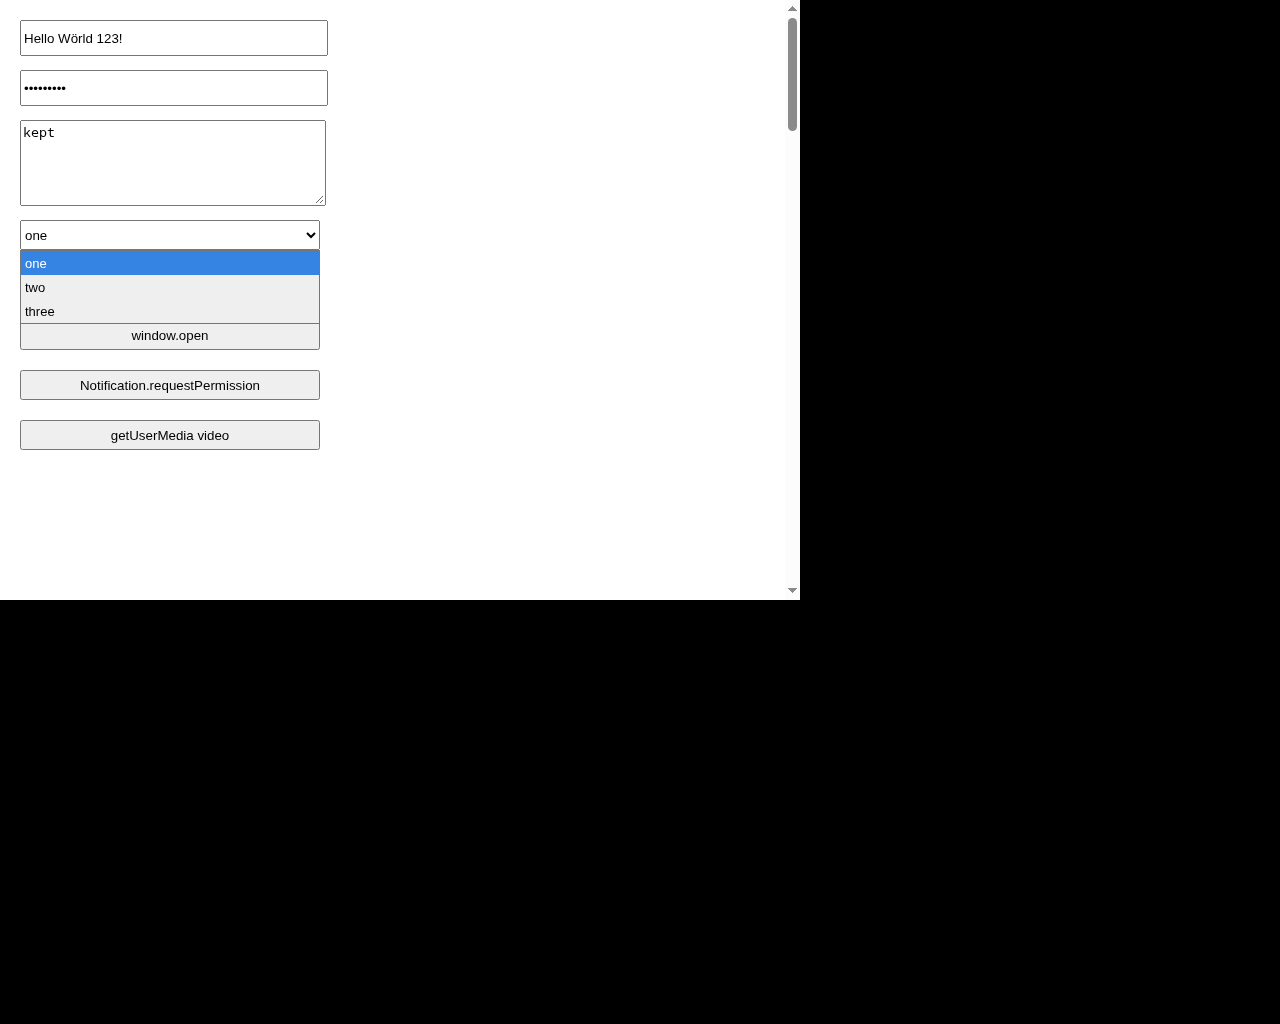
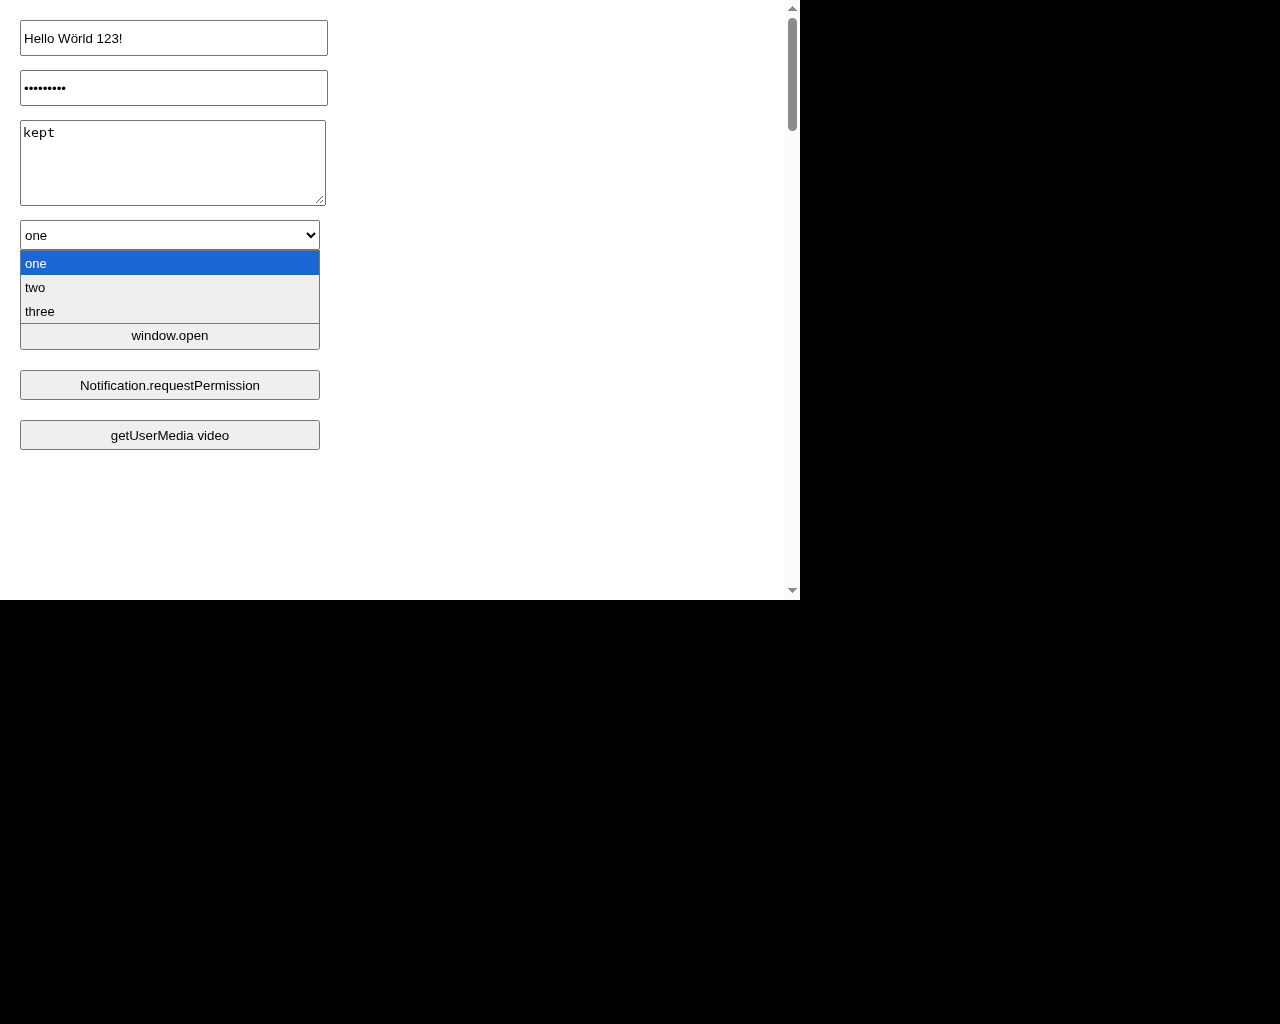
Refresh evidence from a fresh-clone run at 058cdc1

Changed region(s): [[0.0, 0.2188, 0.25, 0.2812]]

diff --git a/rewrite/spikes/cef-osr-signin/REPORT.md b/rewrite/spikes/cef-osr-signin/REPORT.md
@@ -168,7 +168,10 @@ Command output: [evidence/runtime-checks.txt](evidence/runtime-checks.txt).
 | Check | Result |
 |---|---|
 | `run.sh` before `prepare.sh` | exit 1: `No CEF runtime at …/target/cef-runtime/158.0.3/cef_linux_x86_64. Run spikes/cef-osr-signin/prepare.sh first.` |
-| `prepare.sh` | downloaded the beta archive, `sha1sum --check` passed, staged it |
+| `prepare.sh` | downloaded the beta archive, `sha1sum --check` passed, staged it; no `download.*` or `unpack.*` left |
+| `prepare.sh` with `include/` moved out of the stage | exit 1: `The CEF runtime at … is incomplete: include is missing. Remove the directory and run prepare.sh again.` |
+| `prepare.sh` with the archive removed and a `curl` that writes junk | exit 1: `sha1sum` reports the mismatch; no `download.*` file left |
+| `run.sh` with `FLECHA_SPIKE_BIN=no-such-spike-binary` | exit 1: the bare name is resolved through `PATH` before the check |
 | `build.sh` through the lock, PATH `cargo` (the caching `mbx` shim) | exit 0; `readelf -d`: `NEEDED libcef.so`, no RUNPATH; no `libcef.so` or `.pak` at the top level of `target/debug`. cef-dll-sys's build script still copies a runtime under `target/debug/build/`, which is on no library search path and is never loaded |
 | The binary started without `run.sh` | exit 127: `libcef.so: cannot open shared object file` (dynamic loader) |
 | `libcef.so` copied alone into a directory, `LD_LIBRARY_PATH` pointing there | exit 1: `wrong CEF runtime: cannot read …/archive.json` |
@@ -212,7 +215,7 @@ Page: uBlock Origin Lite, `https://chromewebstore.google.com/detail/ublock-origi
 
 ### OSR input on Xvfb
 
-`scripts/input-actions.sh` drives `scripts/input-test.html` in an OSR window with xdotool and fails unless the page reports each expected event. Before typing into a field it clicks the field and waits for the page's `focus` event, so keys cannot go to the document. The page logs what it receives ([full log](evidence/osr-input-events.txt)):
+`scripts/input-actions.sh` drives `scripts/input-test.html` in an OSR window with xdotool and fails unless the page reports each expected event. Before typing into a field it clicks the field and waits for the page's `focus` event, so keys cannot go to the document. It ran 6 times in the fresh clone and passed 6 times ([per-run summary](evidence/input-runs.txt)). The page logs what it receives ([full log](evidence/osr-input-events.txt)):
 
 | Action | Page saw |
 |---|---|
